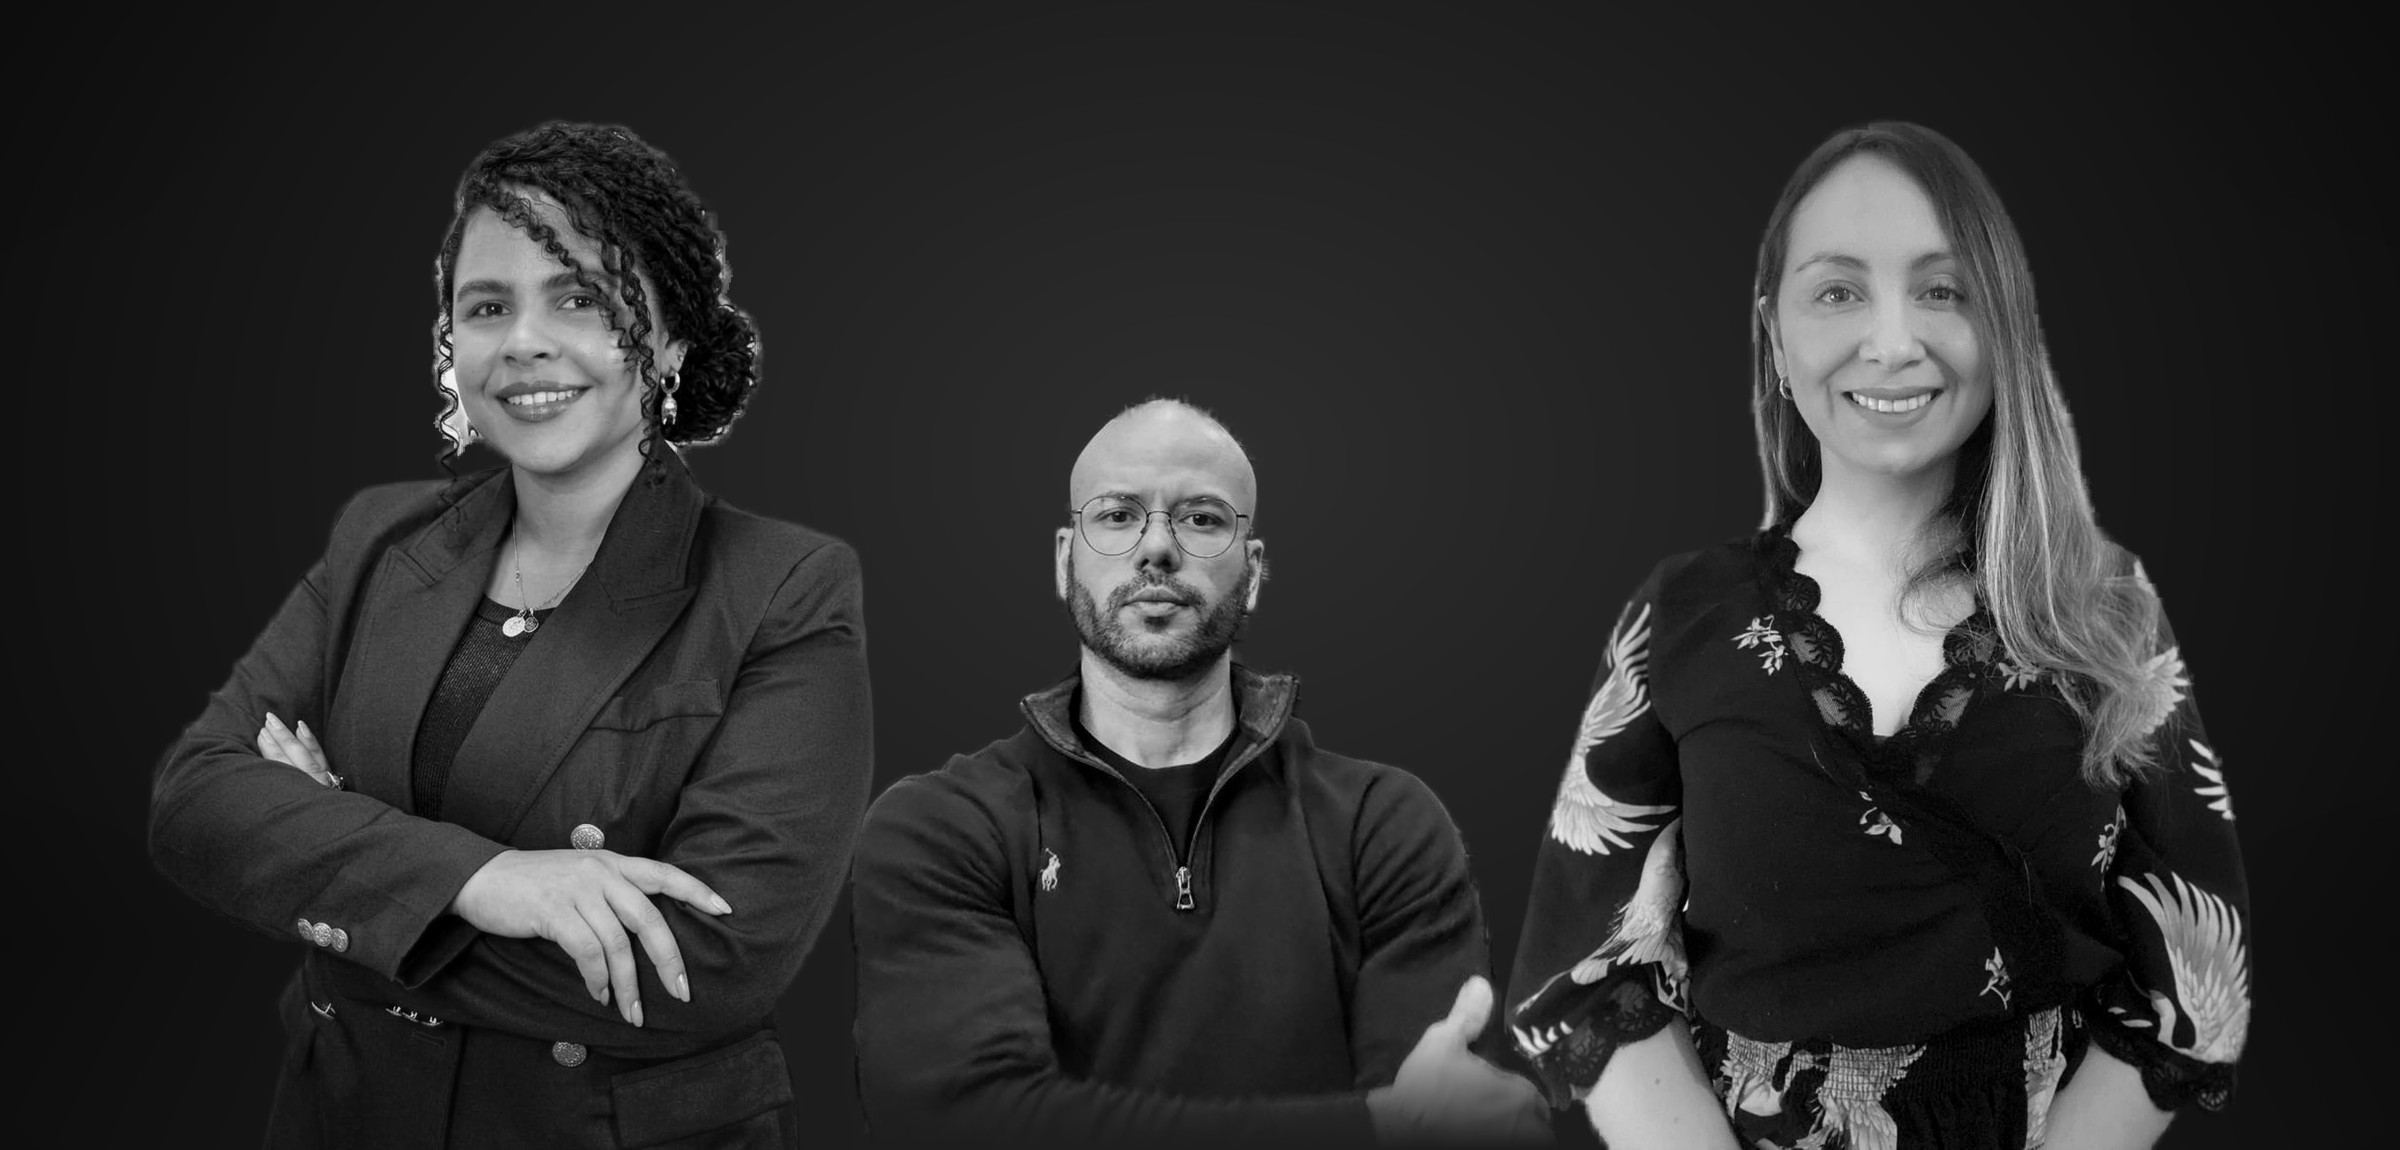
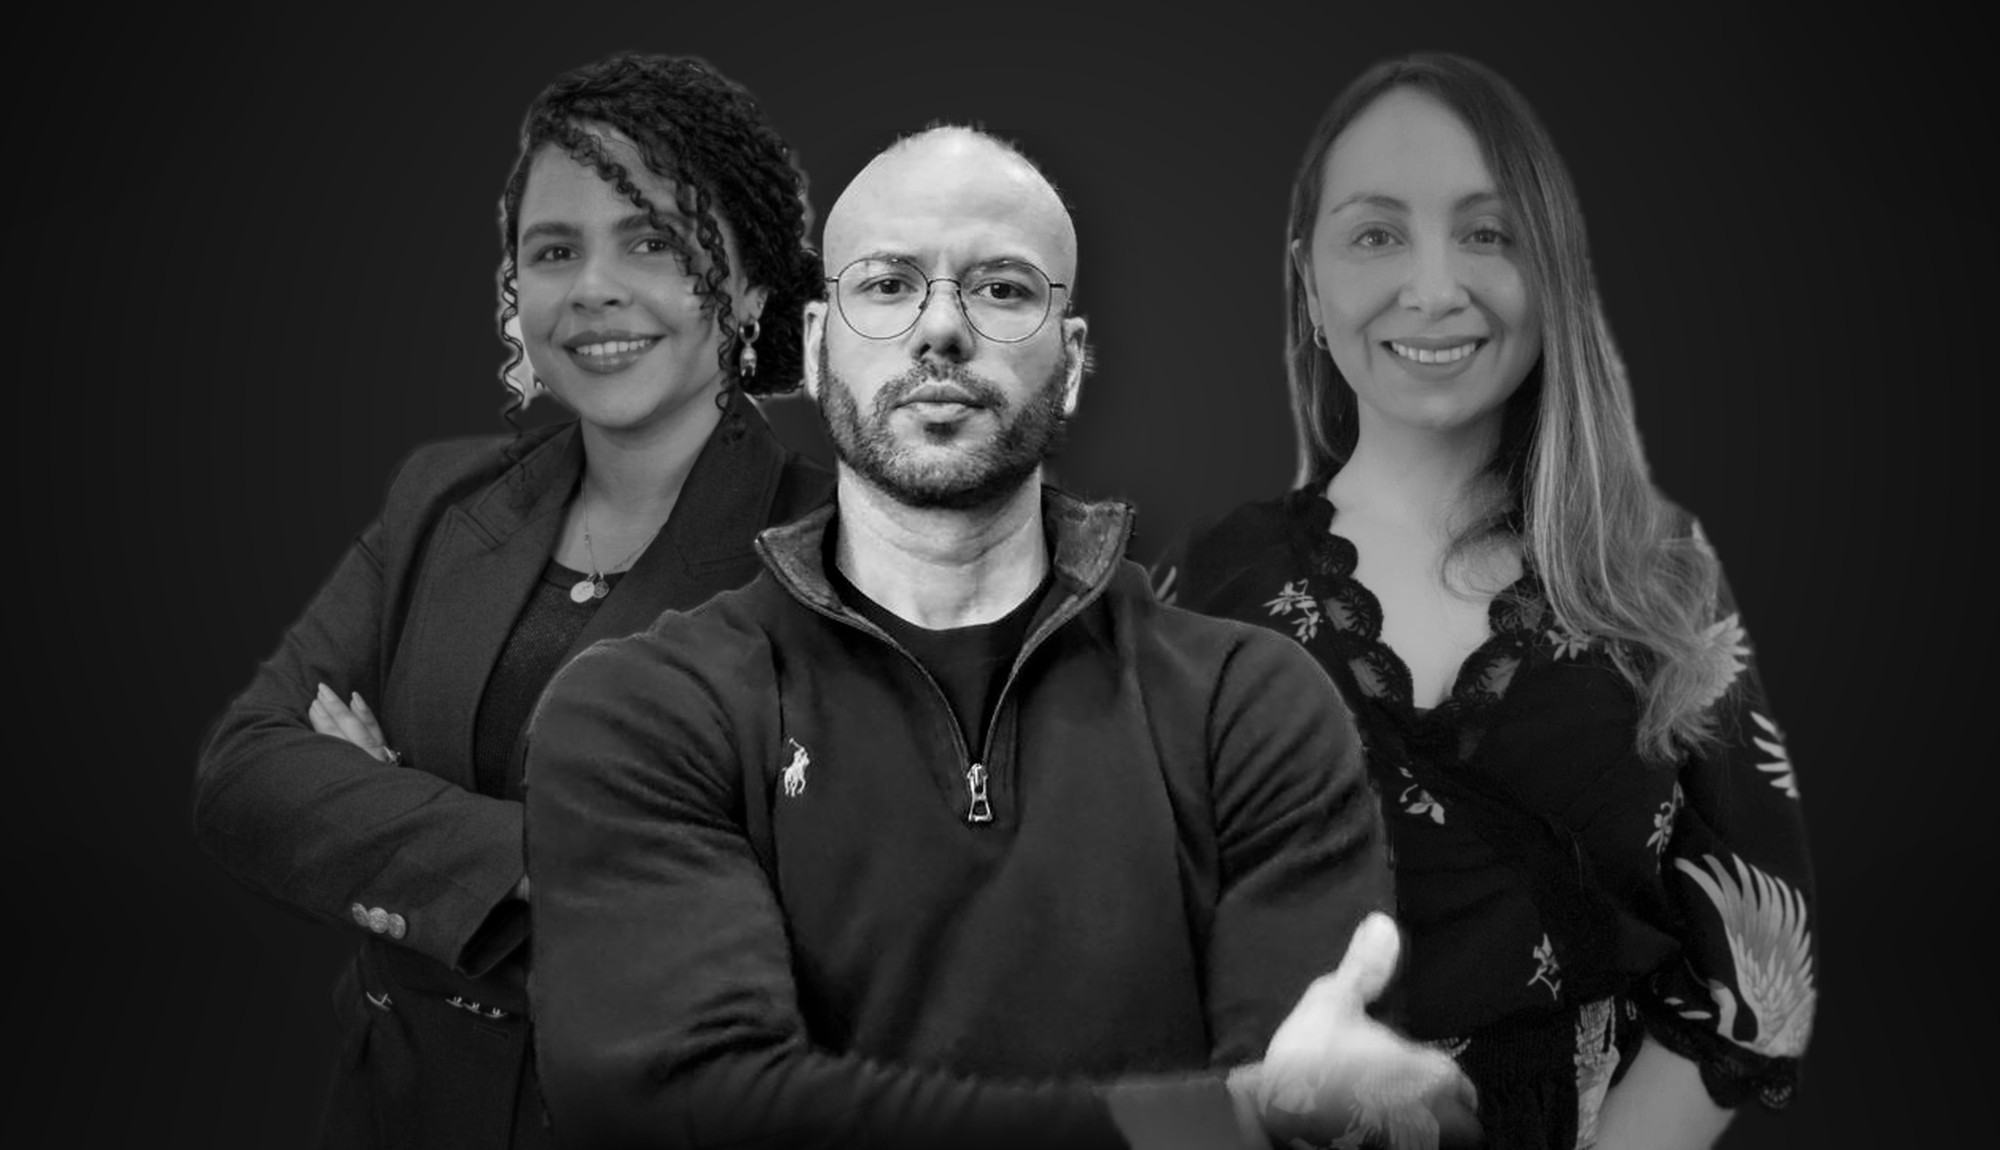
Nosotros en página propia (/nosotros/), tarjetas oscuras legibles y nueva imagen del equipo (Enrique al frente, asistentes detrás)
Claude-Session: https://claude.ai/code/session_01LtYmye2yqRfyK3Q1LdpK6o

diff --git a/nosotros/index.html b/nosotros/index.html
@@ -1,0 +1,91 @@
+<!doctype html>
+<html lang="es">
+<head>
+  <meta charset="utf-8" />
+  <meta name="viewport" content="width=device-width, initial-scale=1" />
+  <title>Nosotros — Enrique Castillo & Asociados</title>
+  <meta name="description" content="Equipo del Estudio de Consultoría en Gestión Empresarial: dirección profesional y asistentes consultoras en Santiago y Puerto Montt.">
+  <link rel="preconnect" href="https://fonts.gstatic.com" crossorigin>
+  <link rel="preconnect" href="https://fonts.googleapis.com">
+  <link href="https://fonts.googleapis.com/css2?family=Inter:wght@400;500;600&family=Playfair+Display:wght@600;700&display=swap" rel="stylesheet">
+  <link rel="icon" href="../assets/Coz_Favicon.png" type="image/png">
+  <link rel="stylesheet" href="../styles.css?v=20261111c" />
+  <style>body{background-image:url('../assets/Fondo_paginaweb1.jpg')}</style>
+</head>
+<body>
+  <header class="site-header">
+    <div class="container header-inner">
+      <p class="header-title">Enrique Castillo & Asociados</p>
+      <nav class="main-nav">
+        <a class="chip" href="/">Inicio</a>
+        <a class="chip" href="/#Control 360°">Control 360°</a>
+        <a class="chip" href="/#soporte">Áreas de Soporte</a>
+        <a class="chip" href="/#tramites">Trámites Online</a>
+        <a class="chip" href="/calculadora-honorarios/">Calculadora Honorarios</a>
+        <a class="chip" href="/#contacto">Contacto</a>
+      </nav>
+    </div>
+  </header>
+
+  <main>
+    <section class="hero hero-nosotros">
+      <div class="container">
+        <div class="hero-media hero-team">
+          <img src="../assets/Equipo_Estudio.jpg" alt="Equipo del Estudio: Enrique Castillo, Cecilia Jemmott y Macarena Sazo">
+        </div>
+      </div>
+    </section>
+
+    <!-- Nosotros -->
+    <section id="nosotros" class="nosotros nosotros-page">
+      <div class="container">
+        <h1>Nosotros</h1>
+        <p class="sub">Un equipo pequeño y cercano: dirección profesional con asistentes consultoras en Santiago y Puerto Montt, para acompañar a cada cliente en terreno y a distancia.</p>
+
+        <div class="org">
+          <div class="org-top">
+            <article class="org-card org-lead">
+              <img src="../assets/Equipo_Enrique.jpg" alt="Enrique Castillo">
+              <div>
+                <h3>Enrique Castillo</h3>
+                <p class="org-role">Director / Consultor</p>
+                <p class="org-loc">Puerto Varas – Puerto Montt, Chile</p>
+                <p>Contador Auditor y MBA. Más de 20 años de trayectoria en administración, finanzas, tributación y gestión laboral, en empresas de distintos sectores y países. Dirige el diagnóstico y la estrategia de cada cliente y supervisa cada entregable del Estudio.</p>
+              </div>
+            </article>
+          </div>
+          <div class="org-connector" aria-hidden="true"><span></span></div>
+          <div class="org-row">
+            <article class="org-card">
+              <img src="../assets/Equipo_Cecilia.jpg" alt="Cecilia Jemmott">
+              <div>
+                <h3>Cecilia Jemmott</h3>
+                <p class="org-role">Asistente Consultor</p>
+                <p class="org-loc">Santiago, Chile</p>
+                <p>Licenciada en Administración de Empresas y Técnico Superior en Hotelería y Hospitalidad. Experiencia en administración y operaciones de hotelería internacional, turismo y restaurantes: facturación y cobranza, conciliación bancaria, control de pagos y comisiones de medios de pago, reservas y atención de clientes. Aporta al Estudio el control administrativo y financiero de negocios gastronómicos y de servicios, con dominio de sistemas de gestión hotelera y CRM.</p>
+              </div>
+            </article>
+            <article class="org-card">
+              <img src="../assets/Equipo_Macarena.jpg" alt="Macarena Sazo">
+              <div>
+                <h3>Macarena Sazo</h3>
+                <p class="org-role">Asistente Consultor</p>
+                <p class="org-loc">Puerto Montt, Chile</p>
+                <p>Enfermera universitaria, con diplomados en gestión y docencia y formación en control de infecciones, bioseguridad, calidad y trato al usuario, y gestión de personas. Aporta al Estudio la mirada sanitaria: revisión en terreno de los Manuales de Buenas Prácticas de los locales de alimentos, verificación de sus programas y registros según la frecuencia comprometida (limpieza y sanitización, control de plagas, temperaturas, higiene del personal, capacitaciones) y preparación de los locales para las fiscalizaciones de la SEREMI de Salud.</p>
+              </div>
+            </article>
+          </div>
+        </div>
+      </div>
+    </section>
+
+  </main>
+
+  <footer class="site-footer">
+    <div class="container">
+      <span>®Adscrito al Colegio de Contadores de Chile.</span>
+      <span>© 2025 Mabui Webhook.</span>
+    </div>
+  </footer>
+</body>
+</html>

diff --git a/index.html b/index.html
@@ -11,7 +11,7 @@
   <link href="https://fonts.googleapis.com/css2?family=Inter:wght@400;500;600&family=Playfair+Display:wght@600;700&display=swap" rel="stylesheet">
 
   <link rel="icon" href="assets/Coz_Favicon.png" type="image/png">
-  <link rel="stylesheet" href="styles.css?v=20261111b" />
+  <link rel="stylesheet" href="styles.css?v=20261111c" />
 </head>
 <body>
 
@@ -25,7 +25,7 @@
         </div>
       </a>
       <nav class="main-nav">
-        <a class="chip" href="#nosotros">Nosotros</a>
+        <a class="chip" href="/nosotros/">Nosotros</a>
         <a class="chip" href="#Control 360°">Control 360°</a>
         <a class="chip" href="#soporte">Áreas de Soporte</a>
         <a class="chip" href="#tramites">Trámites Online</a>
@@ -48,49 +48,6 @@
         </div>
         <div class="hero-media hero-team">
           <img src="assets/Equipo_Estudio.jpg" alt="Equipo del Estudio: Enrique Castillo, Cecilia Jemmott y Macarena Sazo">
-        </div>
-      </div>
-    </section>
-
-    <!-- Nosotros -->
-    <section id="nosotros" class="nosotros">
-      <div class="container">
-        <h2>Nosotros</h2>
-        <p class="sub">Un equipo pequeño y cercano: dirección profesional con asistentes consultoras en Santiago y Puerto Montt, para acompañar a cada cliente en terreno y a distancia.</p>
-
-        <div class="org">
-          <div class="org-top">
-            <article class="org-card org-lead">
-              <img src="assets/Equipo_Enrique.jpg" alt="Enrique Castillo">
-              <div>
-                <h3>Enrique Castillo</h3>
-                <p class="org-role">Director / Consultor</p>
-                <p class="org-loc">Puerto Varas – Puerto Montt, Chile</p>
-                <p>Contador Auditor y MBA. Más de 20 años de trayectoria en administración, finanzas, tributación y gestión laboral, en empresas de distintos sectores y países. Dirige el diagnóstico y la estrategia de cada cliente y supervisa cada entregable del Estudio.</p>
-              </div>
-            </article>
-          </div>
-          <div class="org-connector" aria-hidden="true"><span></span></div>
-          <div class="org-row">
-            <article class="org-card">
-              <img src="assets/Equipo_Cecilia.jpg" alt="Cecilia Jemmott">
-              <div>
-                <h3>Cecilia Jemmott</h3>
-                <p class="org-role">Asistente Consultor</p>
-                <p class="org-loc">Santiago, Chile</p>
-                <p>Licenciada en Administración de Empresas y Técnico Superior en Hotelería y Hospitalidad. Experiencia en administración y operaciones de hotelería internacional, turismo y restaurantes: facturación y cobranza, conciliación bancaria, control de pagos y comisiones de medios de pago, reservas y atención de clientes. Aporta al Estudio el control administrativo y financiero de negocios gastronómicos y de servicios, con dominio de sistemas de gestión hotelera y CRM.</p>
-              </div>
-            </article>
-            <article class="org-card">
-              <img src="assets/Equipo_Macarena.jpg" alt="Macarena Sazo">
-              <div>
-                <h3>Macarena Sazo</h3>
-                <p class="org-role">Asistente Consultor</p>
-                <p class="org-loc">Puerto Montt, Chile</p>
-                <p>Enfermera universitaria, con diplomados en gestión y docencia y formación en control de infecciones, bioseguridad, calidad y trato al usuario, y gestión de personas. Aporta al Estudio la mirada sanitaria: revisión en terreno de los Manuales de Buenas Prácticas de los locales de alimentos, verificación de sus programas y registros según la frecuencia comprometida (limpieza y sanitización, control de plagas, temperaturas, higiene del personal, capacitaciones) y preparación de los locales para las fiscalizaciones de la SEREMI de Salud.</p>
-              </div>
-            </article>
-          </div>
         </div>
       </div>
     </section>

diff --git a/styles.css b/styles.css
@@ -183,6 +183,10 @@ body{
 /* Nosotros / organigrama */
 section[id]{scroll-margin-top:80px}
 .nosotros{padding:48px 0 10px}
+.nosotros-page{padding:30px 0 40px}
+.nosotros-page h1{font-family:"Playfair Display",serif;font-size:40px;margin:0 0 6px}
+.hero-nosotros{padding:40px 0 10px}
+.nosotros .sub{background:rgba(7,12,19,.7);display:inline-block;padding:8px 12px;border-radius:10px}
 .nosotros h2{font-family:"Playfair Display",serif;font-size:40px;margin:0 0 6px}
 .nosotros .sub{color:var(--muted);margin:0 0 22px;max-width:820px}
 .org{display:grid;justify-items:center}
@@ -193,13 +197,13 @@ section[id]{scroll-margin-top:80px}
 .org-connector{height:34px;display:flex;justify-content:center}
 .org-connector span{display:block;width:0;border-left:1px solid rgba(255,255,255,.55)}
 .org-card{position:relative;display:grid;grid-template-columns:132px 1fr;gap:18px;align-items:start;
-  background:linear-gradient(180deg, rgba(12,20,30,.78), rgba(12,20,30,.58));border:1px solid rgba(255,255,255,.14);border-radius:18px;padding:20px}
+  background:rgba(7,12,19,.94);border:1px solid rgba(255,255,255,.16);border-radius:18px;padding:20px;box-shadow:0 10px 30px rgba(0,0,0,.45)}
 .org-card img{width:132px;height:132px;object-fit:cover;border-radius:14px;border:1px solid rgba(255,255,255,.2)}
 .org-card h3{margin:0 0 2px;font-size:20px}
-.org-card p{margin:0;color:var(--muted);font-size:14.5px}
+.org-card p{margin:0;color:#d6deea;font-size:14.5px}
 .org-role{color:#fff!important;font-weight:600;font-size:15px!important}
 .org-loc{font-size:13px!important;margin-bottom:8px!important}
-.org-lead{border-color:rgba(46,103,255,.45);background:linear-gradient(180deg, rgba(46,103,255,.16), rgba(12,20,30,.6))}
+.org-lead{border-color:rgba(46,103,255,.55);background:linear-gradient(180deg, rgba(46,103,255,.22), rgba(7,12,19,.96))}
 @media (max-width:860px){
   .org-row{grid-template-columns:1fr;gap:18px}
   .org-row::before,.org-row > .org-card::before{display:none}

diff --git a/calculadora-honorarios/index.html b/calculadora-honorarios/index.html
@@ -9,7 +9,7 @@
   <link rel="preconnect" href="https://fonts.googleapis.com">
   <link href="https://fonts.googleapis.com/css2?family=Inter:wght@400;500;600&family=Playfair+Display:wght@600;700&display=swap" rel="stylesheet">
   <link rel="icon" href="../assets/Coz_Favicon.png" type="image/png">
-  <link rel="stylesheet" href="../styles.css?v=20261111b" />
+  <link rel="stylesheet" href="../styles.css?v=20261111c" />
   <style>
     body{background-image:url('../assets/Fondo_paginaweb1.jpg')}
     .main-nav{flex-wrap:wrap}.main-nav .chip{white-space:nowrap}
